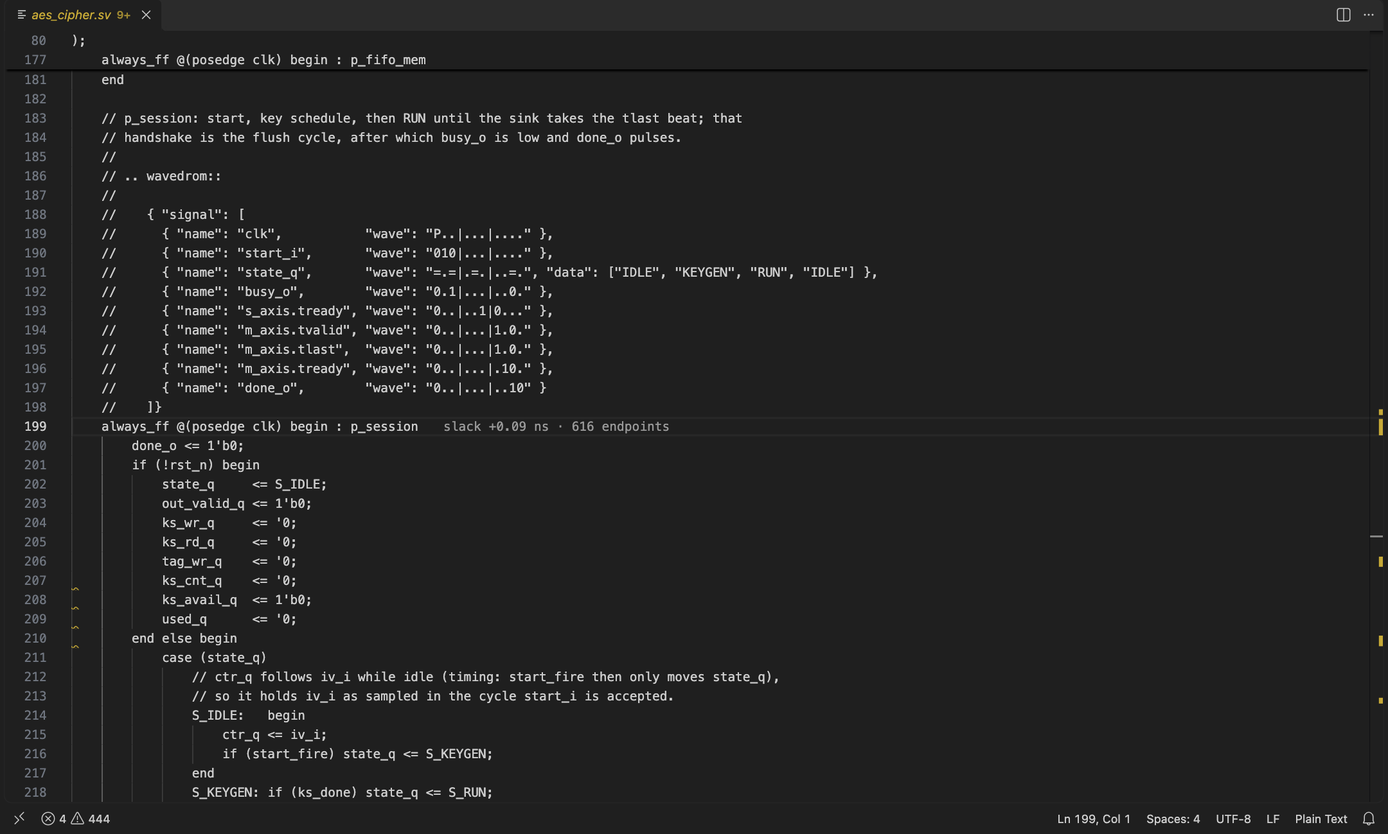
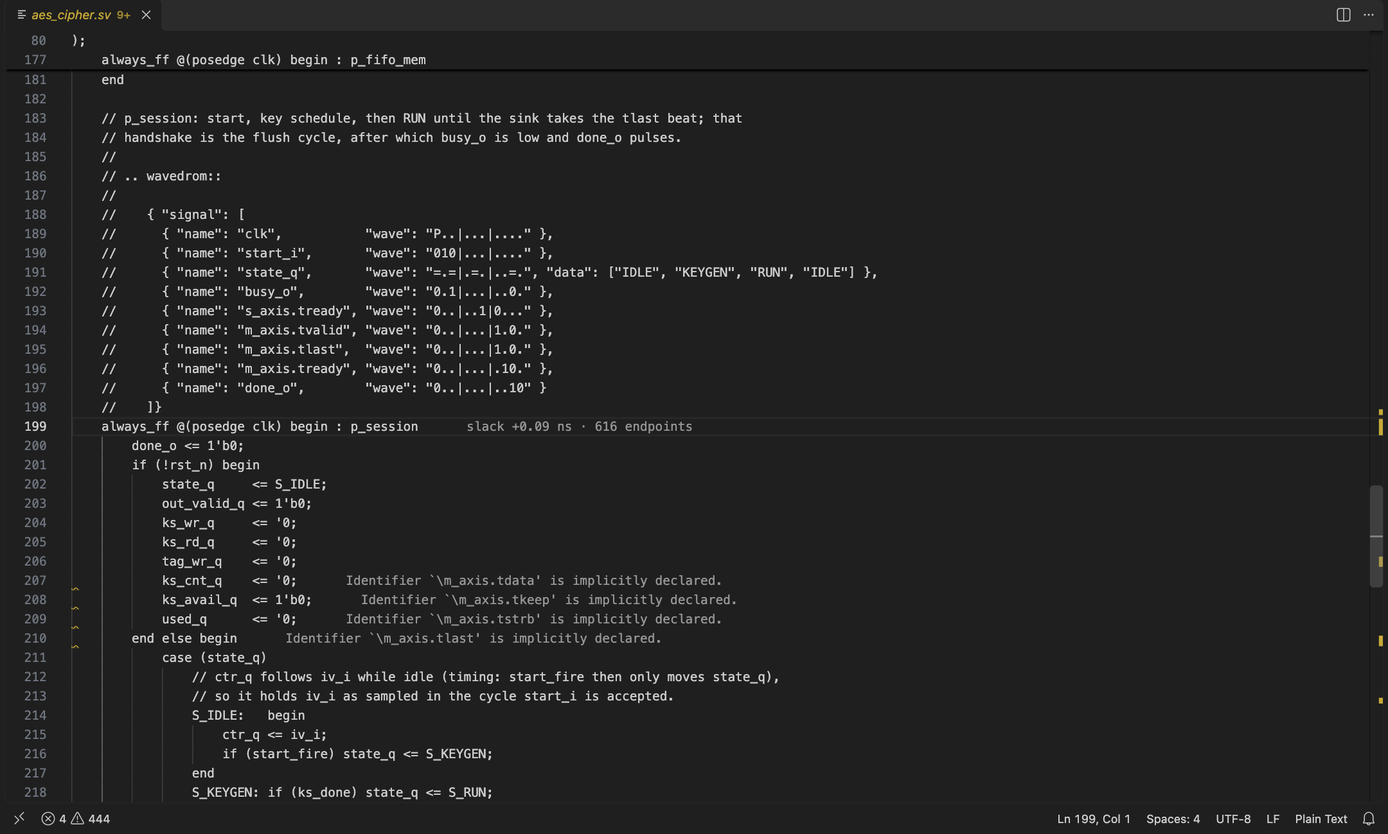
feat: inline problem messages in git-blame style; README restructure
- End-of-line problem messages (worst per line, +N more, truncated),
  toggle command and hdlLogLens.inlineProblems setting
- Timing note shares the blame look (editorInlayHint.foreground, 50px)
- README: features overview, install, getting logs, full settings and
  commands, retaken screenshots incl. a line with both notes

Changed region(s): [[0.2171, 0.6774, 0.5273, 0.7698], [0.9616, 0.5851, 1.0, 0.7082], [0.3412, 0.4927, 0.4963, 0.5235]]

diff --git a/test/integration/index.ts b/test/integration/index.ts
@@ -15,7 +15,7 @@ const sleep = (ms: number) => new Promise((r) => setTimeout(r, ms));
 
 let step = '';
 async function check(): Promise<void> {
-  const api = (await vscode.extensions.getExtension('fpga-james.hdl-log-lens')!.activate()) as { problems: import('../../src/problemsView').ProblemsPanel; timing: import('../../src/timingView').TimingPanel; inline: { annotationsFor(d: vscode.TextDocument): { line: number; text: string; hover: string }[] } };
+  const api = (await vscode.extensions.getExtension('fpga-james.hdl-log-lens')!.activate()) as { problems: import('../../src/problemsView').ProblemsPanel; timing: import('../../src/timingView').TimingPanel; inline: { annotationsFor(d: vscode.TextDocument): { line: number; text: string; hover: string }[] }; inlineProblems: { notesFor(d: vscode.TextDocument): { line: number; text: string; severity: string }[] } };
   for (let i = 0; i < 100 && !['verilator', 'yosys', 'nextpnr', 'nvc'].every((t) => ours().some((x) => x.d.source === t)); i++) await sleep(300);
 
   const all = ours();
@@ -99,6 +99,22 @@ async function check(): Promise<void> {
   await vscode.commands.executeCommand('workbench.view.extension.hdlLogLensTiming');
   for (let i = 0; i < 50 && !api.timing.resolved; i++) await sleep(100);
   assert.ok(api.timing.resolved, 'timing webview resolved when its tab opened');
+
+  // Inline problem messages: axil_if.sv line 63 (0-based 62) has the UNUSEDSIGNAL warning for 'awready'.
+  const axil = await vscode.workspace.openTextDocument(vscode.Uri.file(`${vscode.workspace.workspaceFolders![0].uri.fsPath}/src/axil_if.sv`));
+  const notes = api.inlineProblems.notesFor(axil);
+  const n63 = notes.find((n) => n.line === 62);
+  assert.ok(n63, 'line 63 has an inline problem note');
+  assert.match(n63.text, /^UNUSEDSIGNAL: Signal is not used: 'awready'/);
+  assert.equal(n63.severity, 'warning');
+  assert.equal(new Set(notes.map((n) => n.line)).size, notes.length, 'one note per line');
+  assert.ok(notes.every((n) => n.text.length <= 120 + ' (+999 more)'.length), 'notes are truncated');
+  const logDoc = await vscode.workspace.openTextDocument(vscode.Uri.file(`${vscode.workspace.workspaceFolders![0].uri.fsPath}/out/reports/yosys/nextpnr.log`));
+  assert.deepEqual(api.inlineProblems.notesFor(logDoc), [], 'location-less problems (on a log file) get no inline note');
+  await vscode.workspace.getConfiguration('hdlLogLens').update('inlineProblems', false, vscode.ConfigurationTarget.Global);
+  assert.deepEqual(api.inlineProblems.notesFor(axil), [], 'toggle off hides inline problems');
+  await vscode.workspace.getConfiguration('hdlLogLens').update('inlineProblems', undefined, vscode.ConfigurationTarget.Global);
+  assert.ok(api.inlineProblems.notesFor(axil).length > 0, 'and back on');
 
   // Waivers: quick fix + sidebar node both waive; the file is written, messages disappear, removing the entry restores them.
   const waiverPath = `${os.tmpdir().length > 40 ? '/tmp' : os.tmpdir()}/lens-waive-${process.pid}.json`;

diff --git a/test/inlineProblems.test.ts b/test/inlineProblems.test.ts
@@ -1,0 +1,51 @@
+import { test } from 'node:test';
+import assert from 'node:assert/strict';
+import { problemNotes } from '../src/inlineProblems';
+import type { Row } from '../src/model';
+
+const F = '/w/src/axil_if.sv';
+const row = (o: Partial<Row> = {}): Row => ({
+  tool: 'verilator', logPath: '/w/out/reports/verilator/lint.log', filePath: F, line: 62, severity: 'warning',
+  code: 'UNUSEDSIGNAL', message: "Signal is not used: 'awready'", ...o,
+});
+
+test('one note per line: "CODE: message", severity, 0-based line from the row', () => {
+  assert.deepEqual(problemNotes([row()], F), [{ line: 62, text: "UNUSEDSIGNAL: Signal is not used: 'awready'", severity: 'warning' }]);
+});
+
+test('no code: just the message', () => {
+  assert.equal(problemNotes([row({ code: undefined, message: 'plain' })], F)[0].text, 'plain');
+});
+
+test('several problems on a line: worst severity is shown, the rest counted', () => {
+  const [n] = problemNotes([row(), row({ severity: 'error', code: 'E1', message: 'bad' }), row({ message: 'other warning' })], F);
+  assert.equal(n.severity, 'error');
+  assert.equal(n.text, 'E1: bad (+2 more)');
+});
+
+test('identical messages (the same warning in two logs) are one, not "+1 more"', () => {
+  const [n] = problemNotes([row(), row({ logPath: '/w/out/reports/other/lint.log' })], F);
+  assert.equal(n.text, "UNUSEDSIGNAL: Signal is not used: 'awready'");
+});
+
+test('only the first line of a multi-line message, trimmed', () => {
+  assert.equal(problemNotes([row({ code: undefined, message: '  first line  \nsecond line\n' })], F)[0].text, 'first line');
+});
+
+test('long messages are truncated with an ellipsis to maxLen; the "+N more" suffix is extra', () => {
+  const long = 'x'.repeat(300);
+  assert.equal(problemNotes([row({ code: undefined, message: long })], F, 50)[0].text, `${'x'.repeat(49)}…`);
+  assert.equal(problemNotes([row({ code: undefined, message: long }), row({ message: 'b' })], F, 50)[0].text, `${'x'.repeat(49)}… (+1 more)`);
+  assert.equal(problemNotes([row({ code: undefined, message: 'short' })], F, 50)[0].text, 'short');
+});
+
+test('other files and location-less rows (attached to a log file) are ignored; empty input is empty', () => {
+  assert.deepEqual(problemNotes([row({ filePath: '/w/src/other.sv' })], F), []);
+  const logFile = '/w/out/reports/nextpnr/nextpnr.log';
+  assert.deepEqual(problemNotes([row({ filePath: logFile, logPath: logFile, line: 0 })], logFile), []);
+  assert.deepEqual(problemNotes([], F), []);
+});
+
+test('separate lines give separate notes', () => {
+  assert.deepEqual(problemNotes([row({ line: 5 }), row({ line: 9 })], F).map((n) => n.line).sort((a, b) => a - b), [5, 9]);
+});

diff --git a/src/inlineProblemsView.ts b/src/inlineProblemsView.ts
@@ -1,0 +1,36 @@
+import * as vscode from 'vscode';
+import { problemNotes, type ProblemNote } from './inlineProblems';
+import type { ProblemsPanel } from './problemsView';
+
+// Same look as VS Code's git blame: the editor font, muted inlay-hint colour (git's own default for
+// git.blame.editorDecorationForeground), 50px gap, no severity colour (the squiggle and gutter carry severity).
+export const BLAME_COLOR = 'editorInlayHint.foreground';
+export const BLAME_MARGIN = '0 0 0 50px';
+
+export function registerInlineProblems(ctx: vscode.ExtensionContext, panel: ProblemsPanel) {
+  const cfg = () => vscode.workspace.getConfiguration('hdlLogLens');
+  const enabled = () => cfg().get<boolean>('inlineProblems', true);
+  const type = vscode.window.createTextEditorDecorationType({ after: { color: new vscode.ThemeColor(BLAME_COLOR) } });
+  // Same function feeds the decorations and the Extension Host test.
+  const notesFor = (doc: vscode.TextDocument): ProblemNote[] => (enabled() ? problemNotes(panel.rows, doc.uri.fsPath) : []);
+
+  const apply = (ed: vscode.TextEditor) =>
+    ed.setDecorations(type, notesFor(ed.document)
+      .filter((n) => n.line < ed.document.lineCount) // the file may have shrunk since the log was written
+      .map((n) => ({
+        range: ed.document.lineAt(n.line).range,
+        renderOptions: { after: { contentText: n.text, margin: BLAME_MARGIN } },
+      })));
+  const applyAll = () => vscode.window.visibleTextEditors.forEach(apply);
+
+  ctx.subscriptions.push(
+    type,
+    panel.onDidChangeRows(applyAll),
+    vscode.window.onDidChangeVisibleTextEditors(applyAll),
+    vscode.workspace.onDidChangeConfiguration((e) => e.affectsConfiguration('hdlLogLens.inlineProblems') && applyAll()),
+    vscode.commands.registerCommand('hdlLogLens.toggleInlineProblems', () =>
+      cfg().update('inlineProblems', !enabled(), vscode.ConfigurationTarget.Global)),
+  );
+  applyAll();
+  return { notesFor };
+}

diff --git a/src/extension.ts b/src/extension.ts
@@ -5,6 +5,7 @@ import { parseLog } from './parse';
 import type { Row } from './model';
 import { resolvePath } from './resolve';
 import { registerInline } from './inlineView';
+import { registerInlineProblems } from './inlineProblemsView';
 import { registerTiming, type TimingPanel } from './timingView';
 import { ProblemsPanel } from './problemsView';
 import { registerWaiverUi, WaiverStore } from './waiverView';
@@ -26,7 +27,7 @@ const DEBOUNCE_MS = 200;
 
 type PerFile = Map<string, { uri: vscode.Uri; diags: vscode.Diagnostic[] }>;
 
-export function activate(ctx: vscode.ExtensionContext): { problems: ProblemsPanel; timing: TimingPanel; inline: ReturnType<typeof registerInline> } {
+export function activate(ctx: vscode.ExtensionContext): { problems: ProblemsPanel; timing: TimingPanel; inline: ReturnType<typeof registerInline>; inlineProblems: ReturnType<typeof registerInlineProblems> } {
   const collection = vscode.languages.createDiagnosticCollection('hdl-log-lens');
   const channel = vscode.window.createOutputChannel('HDL Log Lens');
   const log = (msg: string) => channel.appendLine(`${new Date().toISOString().slice(11, 23)} ${msg}`);
@@ -203,7 +204,8 @@ export function activate(ctx: vscode.ExtensionContext): { problems: ProblemsPane
   void waivers.load(log).then(scan); // waivers first, so the first scan already applies them
   const timing = registerTiming(ctx, log);
   const inline = registerInline(ctx, timing);
-  return { problems: panel, timing, inline }; // exposed for the Extension Host test
+  const inlineProblems = registerInlineProblems(ctx, panel);
+  return { problems: panel, timing, inline, inlineProblems }; // exposed for the Extension Host test
 }
 
 export function deactivate(): void {}

diff --git a/src/inlineView.ts b/src/inlineView.ts
@@ -1,12 +1,13 @@
 import * as vscode from 'vscode';
 import { inlineAnnotations, type Annotation } from './inline';
+import { BLAME_COLOR, BLAME_MARGIN } from './inlineProblemsView';
 import type { TimingPanel } from './timingView';
 
 export function registerInline(ctx: vscode.ExtensionContext, panel: TimingPanel) {
   const cfg = () => vscode.workspace.getConfiguration('hdlLogLens');
   const enabled = () => cfg().get<boolean>('inlineTiming', true);
   const type = vscode.window.createTextEditorDecorationType({
-    after: { margin: '0 0 0 2em', color: new vscode.ThemeColor('editorCodeLens.foreground') },
+    after: { color: new vscode.ThemeColor(BLAME_COLOR) },
   });
   // Same function feeds the decorations and the Extension Host test.
   const annotationsFor = (doc: vscode.TextDocument): Annotation[] => (enabled() ? inlineAnnotations(panel.rows, doc.uri.fsPath) : []);
@@ -17,7 +18,7 @@ export function registerInline(ctx: vscode.ExtensionContext, panel: TimingPanel)
       .map((a) => ({
         range: ed.document.lineAt(a.line).range,
         hoverMessage: new vscode.MarkdownString().appendText(a.hover),
-        renderOptions: { after: { contentText: a.text, color: a.negative ? new vscode.ThemeColor('errorForeground') : undefined } },
+        renderOptions: { after: { contentText: a.text, margin: BLAME_MARGIN, color: a.negative ? new vscode.ThemeColor('errorForeground') : undefined } },
       })));
   const applyAll = () => vscode.window.visibleTextEditors.forEach(apply);
 

diff --git a/src/inlineProblems.ts b/src/inlineProblems.ts
@@ -1,0 +1,23 @@
+import type { Row } from './model';
+import type { Severity } from './types';
+
+export interface ProblemNote { line: number; text: string; severity: Severity } // line is 0-based
+
+const RANK: Record<Severity, number> = { error: 0, warning: 1, info: 2 };
+
+// One note per source line: the worst problem on it, plus a count of the other distinct messages.
+// Rows attached to a log file (no source location) are not "next to the code", so they are skipped.
+export function problemNotes(rows: Row[], file: string, maxLen = 120): ProblemNote[] {
+  const byLine = new Map<number, { row: Row; text: string }[]>();
+  for (const r of rows) {
+    if (r.filePath !== file || r.filePath === r.logPath) continue;
+    const first = r.message.split('\n').map((s) => s.trim()).find(Boolean) ?? '';
+    byLine.set(r.line, [...(byLine.get(r.line) ?? []), { row: r, text: `${r.code ? `${r.code}: ` : ''}${first}` }]);
+  }
+  return [...byLine].map(([line, items]) => {
+    const worst = items.reduce((a, b) => (RANK[b.row.severity] < RANK[a.row.severity] ? b : a));
+    const more = new Set(items.map((i) => i.text)).size - 1;
+    const text = worst.text.length > maxLen ? `${worst.text.slice(0, maxLen - 1)}…` : worst.text;
+    return { line, severity: worst.row.severity, text: more ? `${text} (+${more} more)` : text };
+  });
+}

diff --git a/scripts/screenshots/driver.js b/scripts/screenshots/driver.js
@@ -51,7 +51,7 @@ async function pageSocket() {
   const send = (method, params = {}) => new Promise((r) => { pending.set(++id, r); ws.send(JSON.stringify({ id, method, params })); });
   fs.mkdirSync(path.join(root, 'docs/images'), { recursive: true });
   try {
-    for (const name of ['log-lens-table', 'timing-table', 'inline-slack', 'waive-quick-fix']) {
+    for (const name of ['log-lens-table', 'timing-table', 'inline-slack', 'inline-problems', 'inline-both', 'waive-quick-fix']) {
       for (let i = 0; i < 600 && !fs.existsSync(path.join(shots, `${name}.ready`)); i++) await sleep(100);
       if (!fs.existsSync(path.join(shots, `${name}.ready`))) throw new Error(`step ${name} never became ready`);
       // Drop the title bar ("[Extension Development Host] ...") and scale down: full retina PNGs are ~700 KB each.

diff --git a/src/problemsView.ts b/src/problemsView.ts
@@ -6,6 +6,8 @@ import { rowIndex } from './tableHtml';
 
 export class ProblemsPanel implements vscode.WebviewViewProvider {
   rows: Row[] = []; // in the order the table was sent: the page's row index `i` points into this
+  private readonly rowsChanged = new vscode.EventEmitter<void>();
+  readonly onDidChangeRows = this.rowsChanged.event;
   resolved = false; // exposed for the Extension Host test
   private view?: vscode.WebviewView;
   private summary = '';
@@ -22,6 +24,7 @@ export class ProblemsPanel implements vscode.WebviewViewProvider {
     this.rows = sortRows(rows);
     this.summary = summary;
     this.render();
+    this.rowsChanged.fire();
   }
 
   private render(): void {

diff --git a/scripts/screenshots/steps.js b/scripts/screenshots/steps.js
@@ -41,6 +41,12 @@ exports.run = async function run() {
     await cmd('workbench.action.closePanel');
     await open('src/aes_cipher.sv', 199);
   });
+  await step('inline-problems', async () => {
+    await open('src/axil_if.sv', 66);
+  });
+  await step('inline-both', async () => {
+    await open('synth/aes_impl_top.sv', 212); // a line with both a problem message and a timing note
+  });
   await step('waive-quick-fix', async () => {
     await open('src/axil_if.sv', 63);
     await cmd('editor.action.quickFix');

diff --git a/README.md b/README.md
@@ -2,16 +2,47 @@
 
 Turn HDL tool logs into clickable VS Code problems — NVC, Verilator, Yosys, nextpnr, Vivado, Questa.
 
-_Currently implemented: Verilator, NVC, Yosys, nextpnr. Vivado and Questa are next._
+_Implemented today: **Verilator, NVC, Yosys, nextpnr**. Vivado and Questa will be added once they can be tested against real logs._
 
-VS Code extension that reads HDL tool logs from disk and shows their warnings and errors in the **Problems panel**: filter by file or severity, click to jump to the source line.
+A VS Code extension that reads the log and report files your HDL tools leave on disk and puts what matters next to your code:
 
-Supported tools: **Verilator, NVC, Yosys, nextpnr**. Vivado and Questa will be added once they can be tested against real logs.
+- [**Log Lens table**](#log-lens-table): every warning and error from every log in one sortable, filterable table; click to jump to the line.
+- [**Inline problem messages**](#inline-problem-messages): the message at the end of the offending line, styled like git blame.
+- [**Waivers**](#waivers): hide reviewed messages (one message, or a whole message type) with a quick fix or a right-click, kept in a file you can commit.
+- [**Timing table**](#timing-table) and [**inline timing**](#inline-timing): which source lines limit timing, with slack, from your nextpnr reports.
+- The same problems also appear in VS Code's own **Problems** panel.
+
+## Install
+
+Not on the Marketplace yet; install the packaged extension (VS Code 1.90 or newer):
+
+```
+npm install
+npm run build
+npx @vscode/vsce package --no-dependencies
+code --install-extension hdl-log-lens-0.0.1.vsix
+```
+
+If `code` isn't on your PATH, use the Extensions view → `…` menu → **Install from VSIX…** instead. Then run **Developer: Reload Window**. The extension starts with VS Code and logs what it does to the **HDL Log Lens** Output channel (which logs it found, how many problems, why a log was skipped).
+
+## Getting logs for it to read
+
+The extension reads files; it doesn't run your tools. Save each tool's output where `hdlLogLens.logGlobs` can find it (default `**/out/reports/**/*.log` and `**/*.rpt`). Any way of saving works, for example:
+
+```
+verilator --lint-only ... > out/reports/verilator/lint.log 2>&1
+nvc -a ... > out/reports/nvc/sim.log 2>&1
+yosys ... -l out/reports/yosys/yosys.log
+nextpnr-ecp5 ... -l out/reports/yosys/nextpnr.log
+```
+
+The tool is detected from the file name or its parent folder (`verilator/`, `nvc/`, `yosys/`, `nextpnr`), then from the log's contents; set `hdlLogLens.tool` to force one parser.
+
+For the [Timing table](#timing-table), also have nextpnr write its report and routed netlist next to each other: `--report out/reports/impl/<name>_timing.json --detailed-timing-report --write out/reports/impl/<name>_routed.json`.
 
 ## How it works
 
-- Finds logs with `hdlLogLens.logGlobs` (default `**/out/reports/**/*.log`, `**/*.rpt`) and re-parses a log whenever it changes, replacing that log's previous problems.
-- Detects the tool from the log's file name / parent folder, then its contents (override with `hdlLogLens.tool`).
+- Finds logs with `hdlLogLens.logGlobs` and re-parses a log whenever it changes, replacing that log's previous problems.
 - Resolves source paths: absolute → relative to the log → workspace root → unique filename match. If no single file matches, the problem is attached to the log itself with the original `file:line` in the message.
 - Identical problems within one log appear once (Yosys repeats warnings). Problems from different logs are kept separate.
 - `source` is the tool name, `code` the tool's message ID (e.g. `UNUSEDSIGNAL`).
@@ -21,7 +52,13 @@ Supported tools: **Verilator, NVC, Yosys, nextpnr**. Vivado and Questa will be a
 
 ![The Log Lens tab: every problem from the logs as a sortable, filterable table](docs/images/log-lens-table.png)
 
-A **Log Lens** tab in the bottom panel (next to Problems and Timing) lists every problem as a table: **Severity**, **Message**, **Code**, **Source** (`file:line`), **Tool** and **Log**. Errors come first, then by file and line. Click a column header to re-sort, type in the filter box to narrow the rows, click a row (or press Enter) to open the line. Sort and filter survive refreshes. The tab title shows the problem and waived counts. The same problems are also in VS Code's own Problems panel.
+A **Log Lens** tab in the bottom panel (next to Problems and Timing) lists every problem as a table: **Severity**, **Message**, **Code**, **Source** (`file:line`), **Tool** and **Log**. Errors come first, then by file and line. Click a column header to re-sort, type in the filter box to narrow the rows, click a row (or press Enter) to open the line. Sort and filter survive refreshes. The tab title shows the problem and waived counts.
+
+## Inline problem messages
+
+![Problem messages at the end of each line in the editor, styled like git blame](docs/images/inline-problems.png)
+
+Each source line with a problem also shows its message at the end of the line in the same muted style as VS Code's git blame (the editor font, the `editorInlayHint.foreground` colour, a 50 px gap; the squiggle and gutter still carry severity): `UNUSEDSIGNAL: Signal is not used: 'awready'`. A line with several problems shows the worst one plus `(+N more)`; identical messages from different logs count once; long messages are cut at 120 characters. Messages attached to a log file instead of a source line (nextpnr, some NVC) are not shown, and neither are waived ones. Toggle with **HDL Log Lens: Toggle inline problem messages** or `hdlLogLens.inlineProblems`.
 
 ## Waivers
 
@@ -38,8 +75,8 @@ Hide messages you've reviewed and accepted. Waivers live in `hdl-log-lens.waiver
 
 A waiver hides every message that matches **all** the fields it lists (`tool`, `code`, `file` relative to the workspace, `message` text); there are no line numbers, so waivers survive edits. A waiver must list at least one field.
 
-- **Right-click** a row in the Log Lens table: *Waive this message* (tool + code + file + text) or *Waive all messages of this type* (tool + code; tool + text when the tool gives no code).
-- **Quick fix** (lightbulb, or Cmd+.) on a problem in the editor does the same. VS Code gives extensions no right-click menu on its own Problems panel.
+- **Quick fix** (lightbulb, or Cmd+.) on a problem in the editor: *Waive this message* (tool + code + file + text) or *Waive all messages of this type* (tool + code; tool + text when the tool gives no code).
+- **Right-click** a row in the Log Lens table offers the same two choices. VS Code gives extensions no right-click menu on its own Problems panel.
 - You're asked for an optional reason, which is saved in the file. To undo, delete the entry (or **HDL Log Lens: Open waiver file**).
 - Waived messages are hidden, counted in the Log Lens tab title and listed in the HDL Log Lens Output channel. An invalid waiver file waives nothing and is never overwritten.
 
@@ -47,7 +84,7 @@ A waiver hides every message that matches **all** the fields it lists (`tool`, `
 
 ![The Timing tab: one row per source line, worst slack first](docs/images/timing-table.png)
 
-A **Timing** tab in the bottom panel (next to Problems) lists the source lines that limit your timing, **one row per line**, worst slack first. It reads nextpnr timing reports (`hdlLogLens.timingGlobs`, default `**/out/reports/**/*_timing.json`, from `nextpnr --report --detailed-timing-report`) and needs the sibling `<name>_routed.json` (`nextpnr --write`), whose cells carry the HDL line they came from.
+A **Timing** tab in the bottom panel (next to Problems) lists the source lines that limit your timing, **one row per line**, worst slack first. It reads nextpnr timing reports (`hdlLogLens.timingGlobs`, default `**/out/reports/**/*_timing.json`) and needs the sibling `<name>_routed.json`, whose cells carry the HDL line they came from (see [Getting logs](#getting-logs-for-it-to-read)).
 
 Columns: **Source** (`file:line`), **Slack** (of the worst path or register input through the line: clock period minus its arrival time), **Arrival**, **Endpoints** (register inputs ending on the line; a whole bus collapses into one row), **Worst endpoint / path**, **Report**. Click a column header to re-sort; click a row (or press Enter) to open the line. `hdlLogLens.worstLines` (default 200) caps the number of lines.
 
@@ -57,24 +94,34 @@ A register's source line is usually the start of its `always_ff` block. Lines ar
 
 ![An end-of-line note on the always_ff line showing its slack and endpoint count](docs/images/inline-slack.png)
 
-Lines that appear in the timing table also get a faded note at the end of the line in the editor, like a blame annotation: `slack +0.09 ns · 616 endpoints` (red when slack is negative). Hover it for the worst endpoint and its arrival time. Toggle with **HDL Log Lens: Toggle inline timing** or `hdlLogLens.inlineTiming`. The note matches the editor's file by exact path and is not moved when you edit the file, so it can go stale until the next report.
+Lines that appear in the timing table also get a muted note at the end of the line in the editor: `slack +0.09 ns · 616 endpoints` (red when slack is negative). Toggle with **HDL Log Lens: Toggle inline timing** or `hdlLogLens.inlineTiming`. The note matches the editor's file by exact path and is not moved when you edit the file, so it can go stale until the next report. It uses the same style as the problem messages, and a line with both shows the two side by side:
+
+![A line with a timing note and a problem message](docs/images/inline-both.png)
 
 ## Settings & commands
 
-| | |
+| Setting | |
 |---|---|
-| `hdlLogLens.logGlobs` | log/report globs to parse |
-| `hdlLogLens.tool` | `auto` or force one parser |
+| `hdlLogLens.logGlobs` | log/report globs to parse (default `**/out/reports/**/*.log`, `**/*.rpt`) |
+| `hdlLogLens.tool` | `auto`, or force one parser (`verilator`, `yosys`, `nextpnr`, `nvc`) |
 | `hdlLogLens.suppressCodes` | message IDs to hide everywhere |
 | `hdlLogLens.waiverFile` | waiver file path (default `hdl-log-lens.waivers.json`) |
+| `hdlLogLens.timingGlobs` | nextpnr timing reports for the Timing table |
 | `hdlLogLens.worstLines` | how many source lines the Timing table lists (default 200) |
-| `hdlLogLens.timingGlobs` | nextpnr timing reports for the Timing view |
-| `hdlLogLens.inlineTiming` | show delay/slack at the end of timing-critical lines (default on) |
-| **HDL Log Lens: Clear HDL problems** | empties the panel until a log changes again |
+| `hdlLogLens.inlineProblems` | show each line's worst problem at the end of the line (default on) |
+| `hdlLogLens.inlineTiming` | show slack at the end of timing-critical lines (default on) |
+
+| Command | |
+|---|---|
+| **HDL Log Lens: Clear HDL problems** | empties the panels until a log changes again |
+| **HDL Log Lens: Open waiver file** | opens `hdl-log-lens.waivers.json` |
+| **HDL Log Lens: Toggle inline problem messages** | turns the end-of-line messages on or off |
+| **HDL Log Lens: Toggle inline timing** | turns the end-of-line slack notes on or off |
 
 ## Known limits
 
-- Problems don't move or clear when you edit the source; they refresh when the log is next written.
+- Problems and inline notes don't move or clear when you edit the source; they refresh when the log or report is next written.
+- Vivado and Questa logs are not supported yet. Timing needs nextpnr reports.
 - Windows/WSL paths are handled only for drive-letter paths in Verilator logs and filename search.
 - NVC parsing is tested on compile errors and a fatal; NVC *runtime* simulation messages (assertions etc.) are not yet tested against real logs.
 
@@ -85,6 +132,7 @@ npm install
 npm test                                   # unit tests, real AES log fixtures
 AES_DIR=/path/to/AES npm run test:integration   # runs in a real VS Code host (macOS app path; set VSCODE_BIN elsewhere)
 ```
+
 Fixtures in `test/fixtures` come from the AES project's `out/reports`.
 
 The screenshots in `docs/images` are real VS Code captures of the extension running on AES; regenerate them with `AES_DIR=/path/to/AES node scripts/screenshots/driver.js` (macOS; a VS Code window opens for about 30 seconds).
